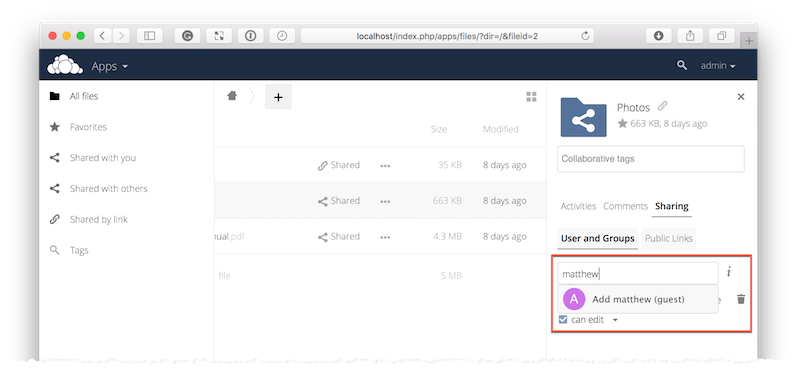
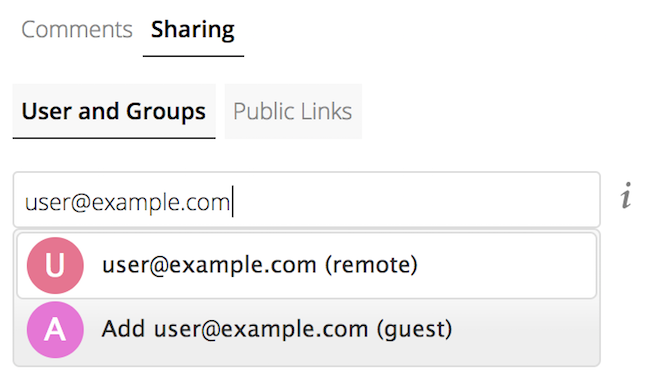
Revise the guest application documentation
This commit revises the guest application documentation to reflect the
new Guests app behaviour. It also fixes #3835.

diff --git a/user_manual/files/webgui/sharing.rst b/user_manual/files/webgui/sharing.rst
@@ -60,21 +60,14 @@ Sharing Files with Guest Users
 ^^^^^^^^^^^^^^^^^^^^^^^^^^^^^^
 
 Users can also share files and folders with guest users. 
-To do so, your ownCloud administrator will need to have installed the Guest application.
+To do so, your ownCloud administrator will need to have installed `the Guest application`_.
 
-If it's already installed, in the "**User and Groups**" field of the Sharing panel, type the username of a user who is not already a user in your ownCloud installation.
+If it's already installed, in the "**User and Groups**" field of the "**Sharing**" panel, type the email address of a user who is not already a user in your ownCloud installation.
 You will then see a popup appear with the suffix ``(guest)``, as in the screenshot below.
 
 .. image:: ../../images/guest-users/share-with-guest-users.png
    :alt: Sharing with guest users.
    
-After you click the username in the list, you'll see a modal dialog appear, where you can add the new user to the list of guest users. 
-
-.. image:: ../../images/guest-users/add-user-to-guests.png
-   :alt: Add a guest user modal dialog.
-
-The Name field will be pre-filled with the username you supplied. 
-All you need to do is add the user's email address, and click "**Save and Share**".
 After you do that, the content will be shared with the user with all permissions applied, except for the ability to share with other users.
 
 .. image:: ../../images/guest-users/content-shared-with-guest-user.png
@@ -201,3 +194,6 @@ When users open the share link, they will see a page where they can either click
 After the file's been successfully uploaded, they'll see (where possible) a preview of the file that has been uploaded.
    
 
+.. Links
+   
+.. _the Guest application: https://marketplace.owncloud.com/apps/guests
